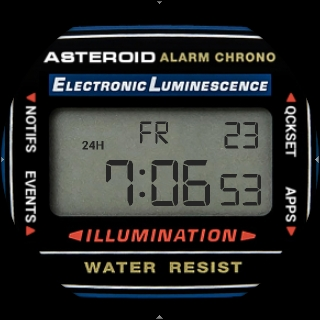
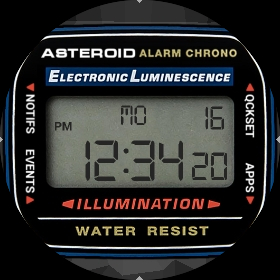
retro-lcd: Updated to include background image as part of watchface

diff --git a/retro-lcd/usr/share/asteroid-launcher/watchfaces/retro-lcd.qml b/retro-lcd/usr/share/asteroid-launcher/watchfaces/retro-lcd.qml
@@ -1,75 +1,90 @@
 import QtQuick 2.1
 
-Canvas {
+Item {
     id: rootitem
-    anchors.fill: parent
-    contextType: "2d"
-    antialiasing: true
-    smooth: true
-    renderTarget: Canvas.FramebufferObject
 
-    onPaint: {
-		var ctx = getContext("2d");
-		ctx.reset();
-		ctx.fillStyle = "#252525";
-		ctx.textBaseline = 'middle';
-		var centerX = rootitem.width * 0.5;
-		var centerY = rootitem.height * 0.5;
-
-		var ourTime = wallClock.time.getHours();
-		var ourMins = wallClock.time.getMinutes();
-		var ourSecs = wallClock.time.getSeconds();
-		var ourDOW = Qt.formatDate(wallClock.time, "ddd").substr(0, 2);
-		var ourDay = Qt.formatDate(wallClock.time, "dd").substr(0, 2).replace(/^0/, '');
-
-		if (ourMins < 10) ourMins = "0" + ourMins;
-		if (ourSecs < 10) ourSecs = "0" + ourSecs;
-
-		function fontSizeCalc(ourSize) {
-			var ratio = ourSize / 280;
-			var size = rootitem.width * ratio;
-			return size|0;
-		}
-
-		if (use12H.value) {
-			if (ourTime >= 12) {
-				ourTime -= 12;
-				ctx.textAlign = "center";
-				ctx.font = "bold " + fontSizeCalc(12) + "px " + "Roboto";
-				ctx.fillText("PM", centerX - (centerX * 0.55), centerY - (centerY * 0.09));
-			}
-
-			if (ourTime == 0) ourTime = 12;
-		} else {
-			ctx.textAlign = "center";
-			ctx.font = "bold " + fontSizeCalc(11) + "px " + "Roboto";
-			ctx.fillText("24H", centerX - (centerX * 0.42), centerY - (centerY * 0.085));
-		}
-
-		var fontFamily = "'Digital-7 Mono'";
-		ctx.textAlign = "right";
-		ctx.font = "50 " + fontSizeCalc(62) + "px " + fontFamily;
-		ctx.fillText(ourTime, centerX - (centerX * 0.153), centerY + (centerY * 0.05));
-
-		ctx.font = "50 " + fontSizeCalc(62) + "px " + fontFamily;
-		ctx.fillText(ourMins, centerX + (centerX * 0.33), centerY + (centerY * 0.05));
-
-		ctx.font = "50 " + fontSizeCalc(42) + "px " + fontFamily;
-		ctx.fillText(ourSecs, centerX + (centerX * 0.643), centerY + (centerY * 0.123));
-
-		ctx.font = "50 " + fontSizeCalc(30) + "px " + fontFamily;
-		ctx.fillText(ourDOW, centerX + (centerX * 0.06), centerY - (centerY * 0.22));
-
-		ctx.font = "50 " + fontSizeCalc(35) + "px " + fontFamily;
-		ctx.fillText(ourDay, centerX + (centerX * 0.62), centerY - (centerY * 0.21));
-
-		ctx.textAlign = "center";
-		ctx.font = "50 " + fontSizeCalc(46) + "px " + "Roboto";
-		ctx.fillText(":", centerX - (centerX * 0.113), centerY + (centerY * 0.15));
+    Image {
+        z: 0
+        width: parent.width
+        height: parent.height
+        source: "img/" + "lcd-back" + ".png"
+        anchors {
+            horizontalCenter: parent.horizontalCenter
+            verticalCenter: parent.verticalCenter
+        }
     }
-     
+    Canvas {
+        id: digital
+        z: 0
+
+        anchors.fill: parent
+        contextType: "2d"
+        antialiasing: true
+        smooth: true
+        renderTarget: Canvas.FramebufferObject
+
+        onPaint: {
+            var ctx = getContext("2d");
+            ctx.reset();
+            ctx.fillStyle = "#252525";
+            ctx.textBaseline = 'middle';
+            var centerX = rootitem.width * 0.5;
+            var centerY = rootitem.height * 0.5;
+
+            var ourTime = wallClock.time.getHours();
+            var ourMins = wallClock.time.getMinutes();
+            var ourSecs = wallClock.time.getSeconds();
+            var ourDOW = Qt.formatDate(wallClock.time, "ddd").substr(0, 2);
+            var ourDay = Qt.formatDate(wallClock.time, "dd").substr(0, 2).replace(/^0/, '');
+
+            if (ourMins < 10) ourMins = "0" + ourMins;
+            if (ourSecs < 10) ourSecs = "0" + ourSecs;
+
+            function fontSizeCalc(ourSize) {
+                var ratio = ourSize / 280;
+                var size = rootitem.width * ratio;
+                return size|0;
+            }
+
+            if (use12H.value) {
+                if (ourTime >= 12) {
+                    ourTime -= 12;
+                    ctx.textAlign = "center";
+                    ctx.font = "bold " + fontSizeCalc(12) + "px " + "Roboto";
+                    ctx.fillText("PM", centerX - (centerX * 0.55), centerY - (centerY * 0.09));
+                }
+
+                if (ourTime == 0) ourTime = 12;
+            } else {
+                ctx.textAlign = "center";
+                ctx.font = "bold " + fontSizeCalc(11) + "px " + "Roboto";
+                ctx.fillText("24H", centerX - (centerX * 0.42), centerY - (centerY * 0.085));
+            }
+
+            var fontFamily = "'Digital-7 Mono'";
+            ctx.textAlign = "right";
+            ctx.font = "50 " + fontSizeCalc(62) + "px " + fontFamily;
+            ctx.fillText(ourTime, centerX - (centerX * 0.143), centerY + (centerY * 0.05));
+
+            ctx.font = "50 " + fontSizeCalc(62) + "px " + fontFamily;
+            ctx.fillText(ourMins, centerX + (centerX * 0.32), centerY + (centerY * 0.05));
+
+            ctx.font = "50 " + fontSizeCalc(42) + "px " + fontFamily;
+            ctx.fillText(ourSecs, centerX + (centerX * 0.633), centerY + (centerY * 0.123));
+
+            ctx.font = "50 " + fontSizeCalc(30) + "px " + fontFamily;
+            ctx.fillText(ourDOW, centerX + (centerX * 0.05), centerY - (centerY * 0.22));
+
+            ctx.font = "50 " + fontSizeCalc(35) + "px " + fontFamily;
+            ctx.fillText(ourDay, centerX + (centerX * 0.61), centerY - (centerY * 0.21));
+
+            ctx.textAlign = "center";
+            ctx.font = "50 " + fontSizeCalc(46) + "px " + "Roboto";
+            ctx.fillText(":", centerX - (centerX * 0.103), centerY + (centerY * 0.15));
+        }
+    }
     Connections {
         target: wallClock
-        onTimeChanged: rootitem.requestPaint()
-	}
+        onTimeChanged: digital.requestPaint()
+    }
 }

diff --git a/README.md b/README.md
@@ -23,7 +23,7 @@ The creators of the below listed watchfaces are happy to answer your questions a
 | Round Display | Square Display | Watchface Title | Creator |
 |---|---|---|---|
 | ![thumbnail](.thumbnails/analog-precision-round.jpg) |![thumbnail](.thumbnails/analog-precision.jpg) | [analog-precision](analog-precision/usr/share/asteroid-launcher/watchfaces/analog-precision.qml) | [Mario Kicherer](mailto:dev@kicherer.org) |
-| ![thumbnail](.thumbnails/retro-lcd-round.jpg) |![thumbnail](.thumbnails/retro-lcd.jpg) | [retro-lcd](retro-lcd/usr/share/asteroid-launcher/watchfaces/retro-lcd.qml) | [Huntereb](mailto:Huntereb@lewd.pics) |
+| ![thumbnail](.thumbnails/retro-lcd-round.jpg) |![thumbnail](.thumbnails/retro-lcd.jpg) | [retro-lcd](retro-lcd/usr/share/asteroid-launcher/watchfaces/retro-lcd.qml) | [Huntereb](mailto:Huntereb@lewd.pics), [eLtMosen](https://github.com/eLtMosen) |
 | ![thumbnail](.thumbnails/kitt-round.jpg) |![thumbnail](.thumbnails/kitt.jpg) | [kitt](kitt/usr/share/asteroid-launcher/watchfaces/kitt.qml) | [jgibbon](https://github.com/jgibbon) |
 | ![thumbnail](.thumbnails/arc-round.jpg) |![thumbnail](.thumbnails/arc.jpg) | [arc (multiple)](arc/usr/share/asteroid-launcher/watchfaces/) | [jgibbon](https://github.com/jgibbon) |
 | ![thumbnail](.thumbnails/alternative-default-digital-mosen-round.jpg) |![thumbnail](.thumbnails/alternative-default-digital-mosen.jpg) | [alternative-default-digital-mosen](alternative-default-digital-mosen/usr/share/asteroid-launcher/watchfaces/alternative-default-digital-mosen.qml) | [eLtMosen](https://github.com/eLtMosen) |
